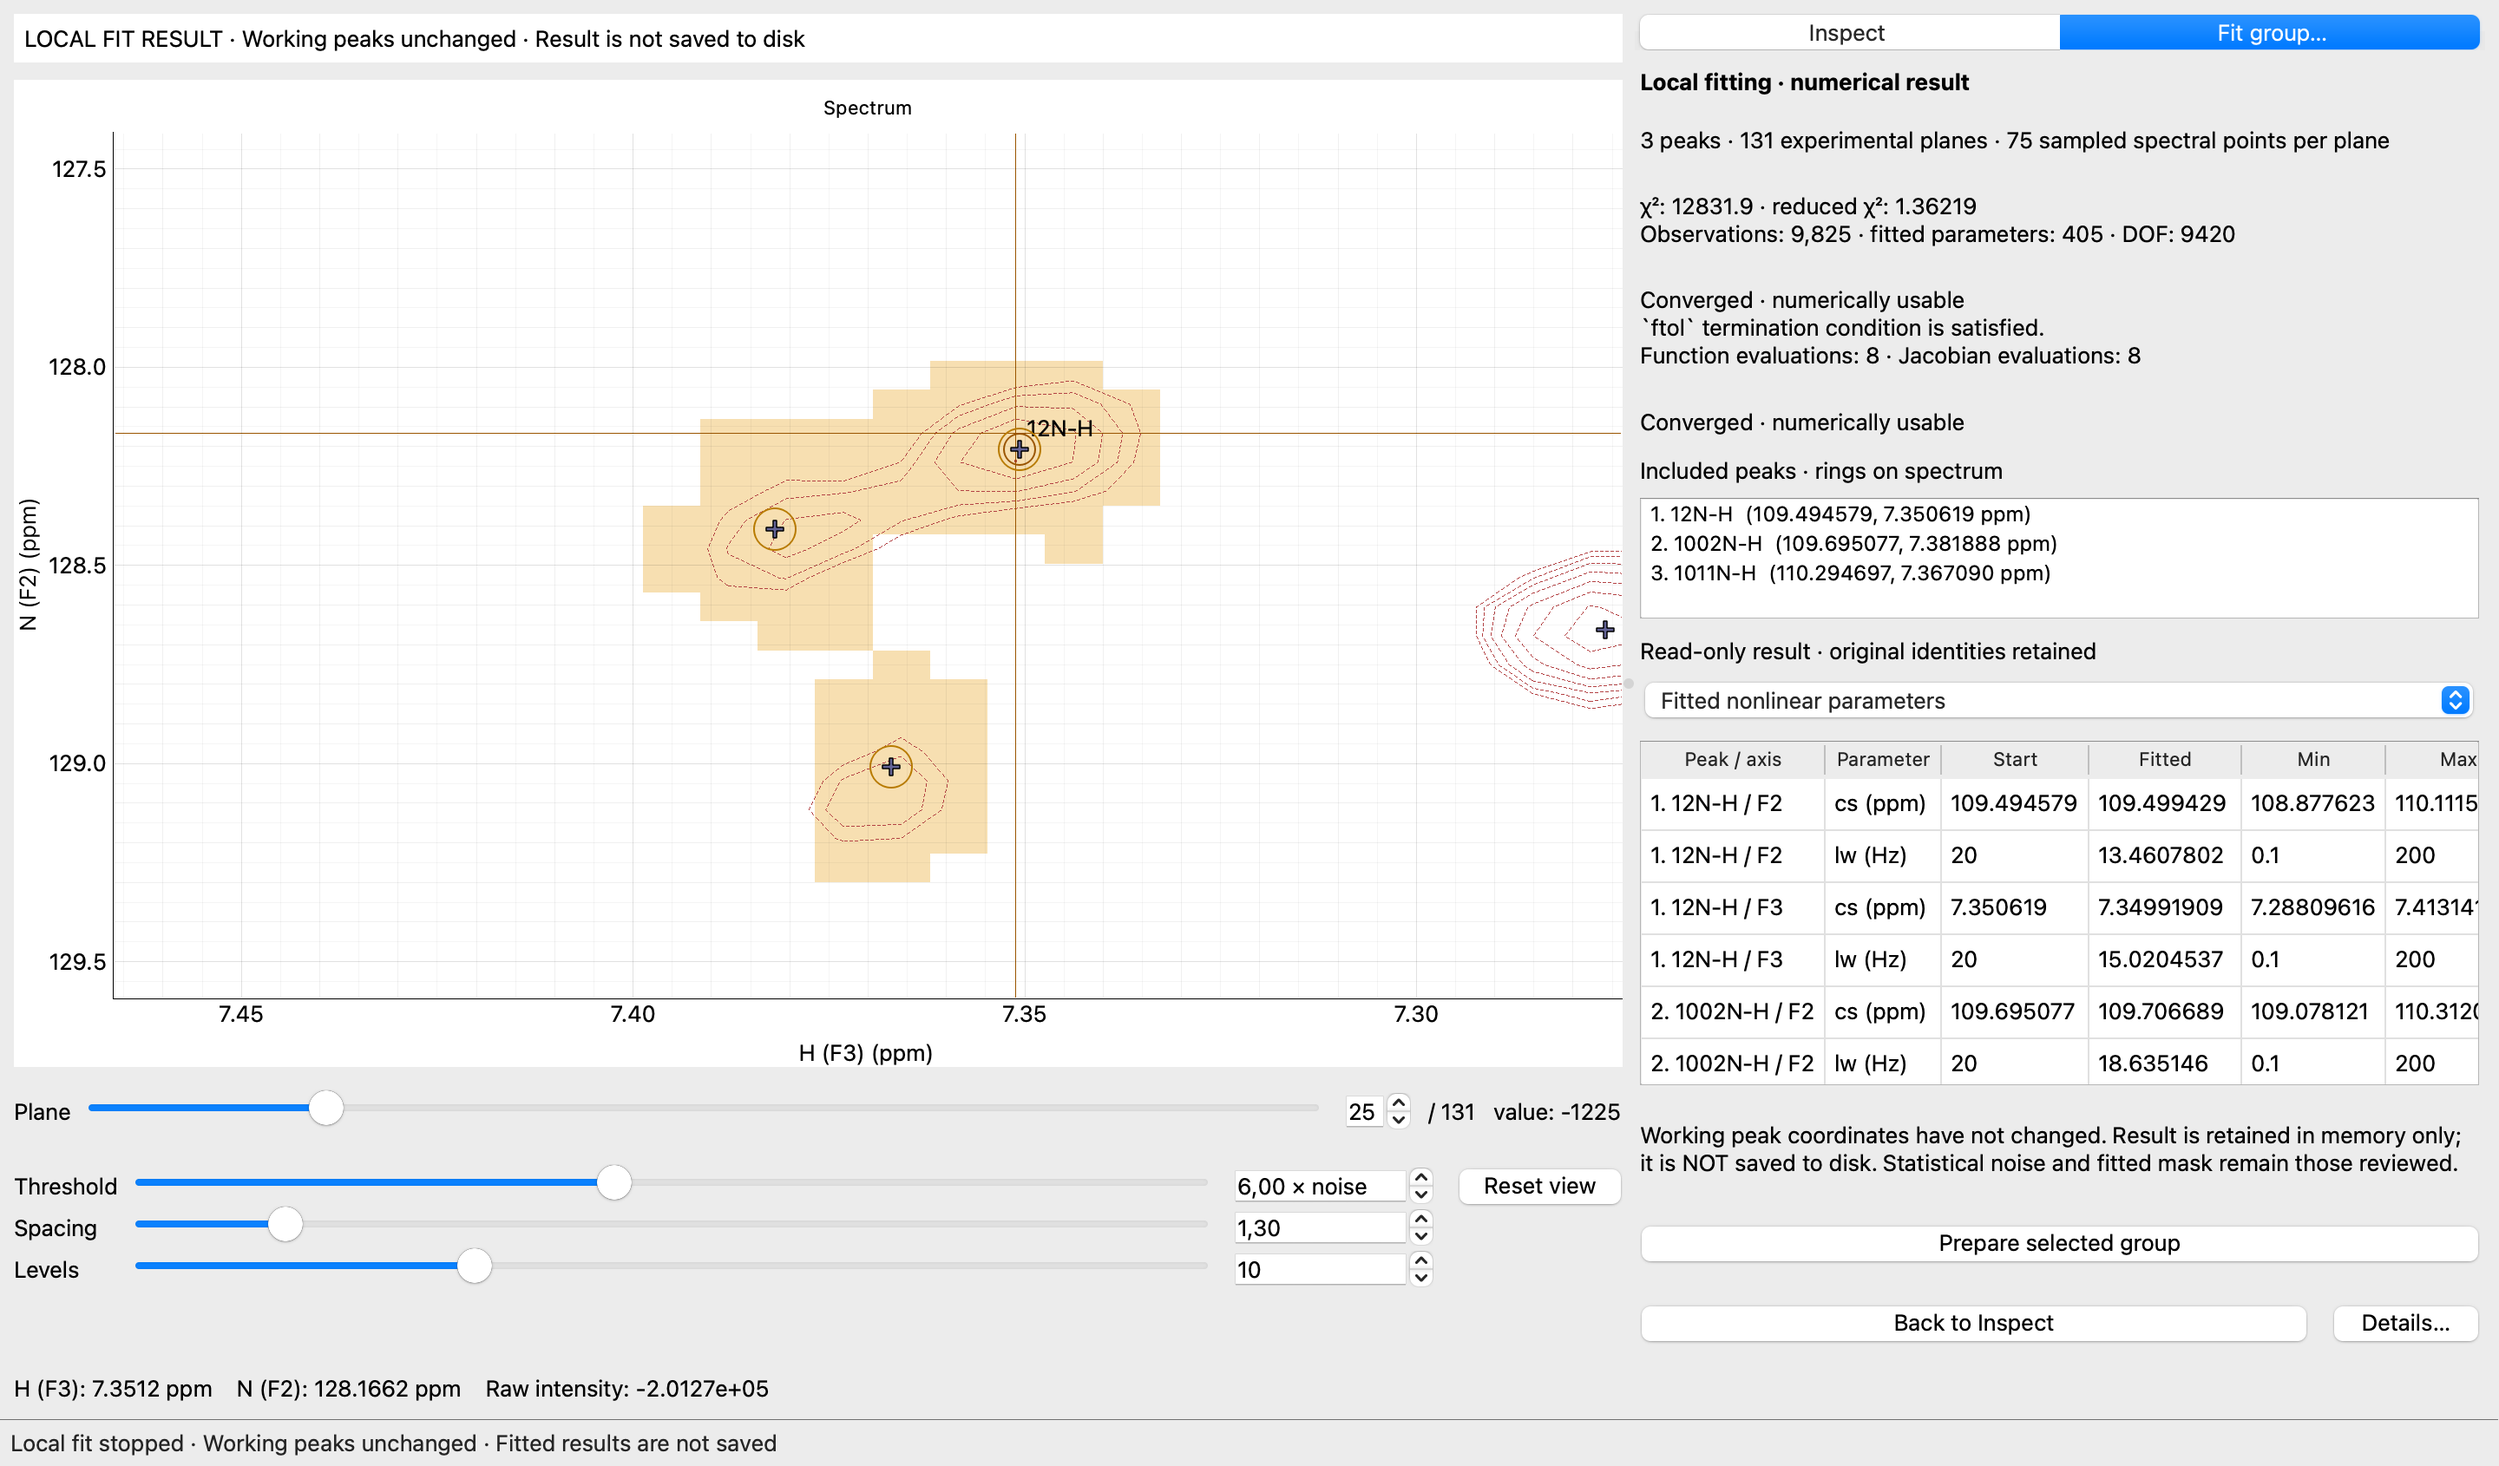
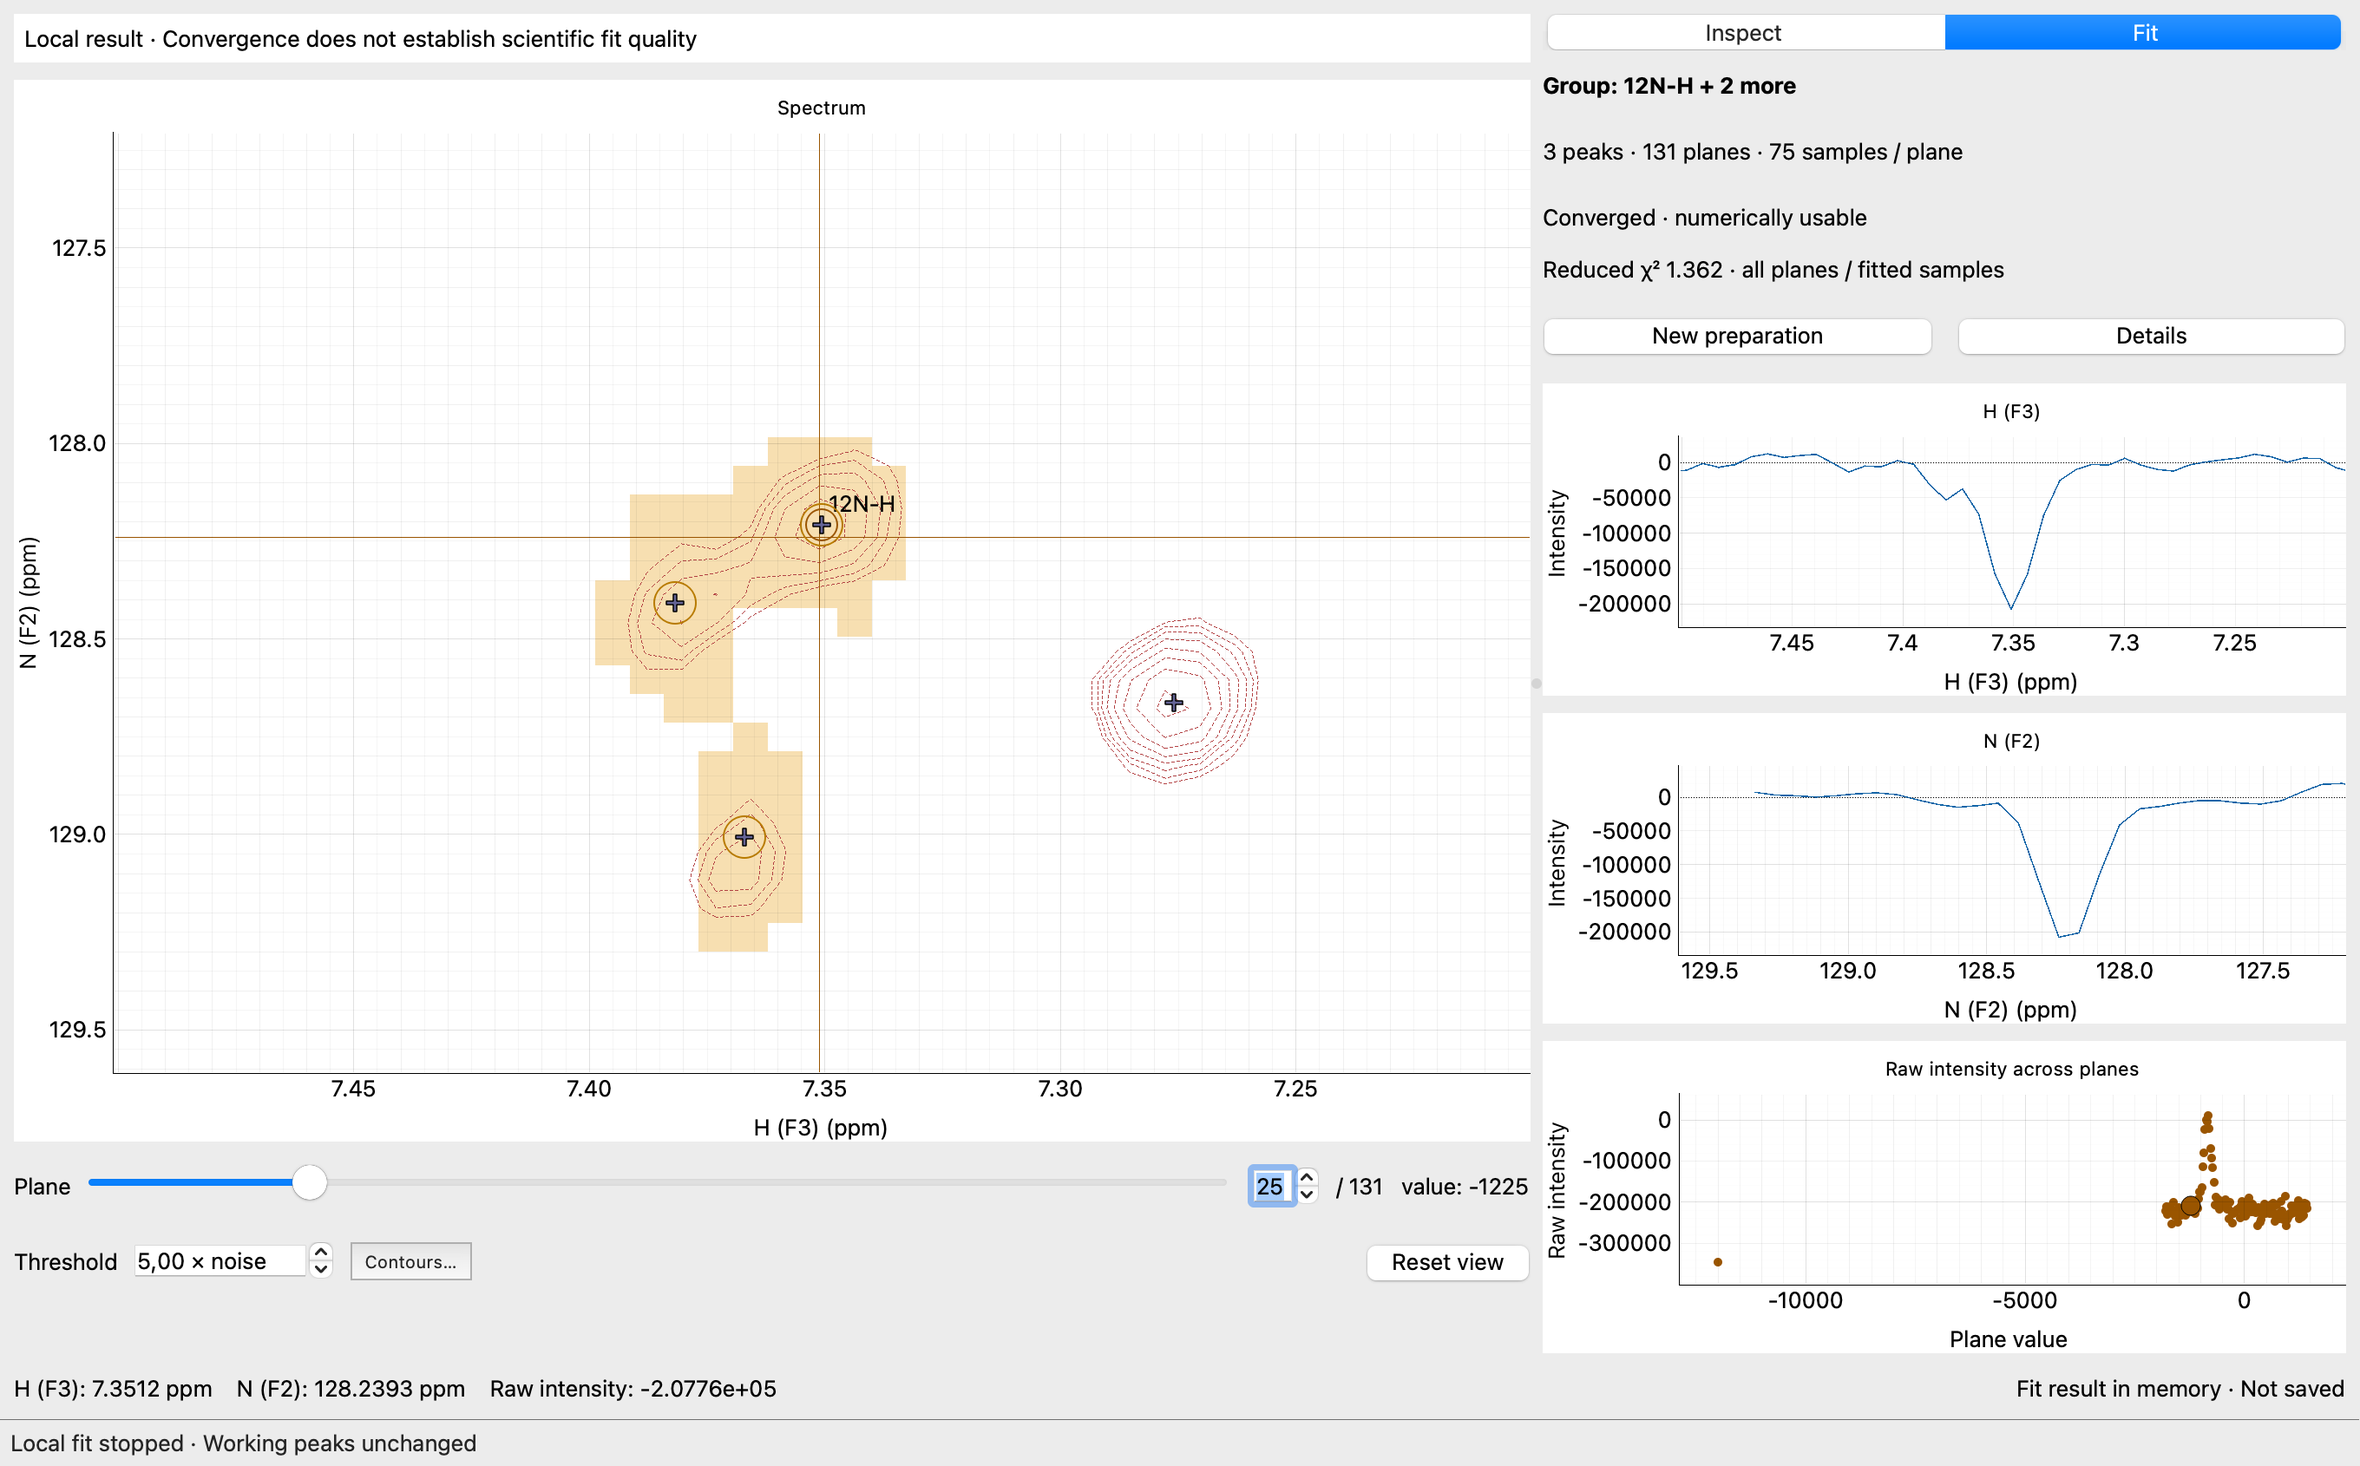
Document native UX validation and refresh GUI screenshots

diff --git a/src/peakfit/gui/fit_preview.py b/src/peakfit/gui/fit_preview.py
@@ -292,7 +292,9 @@ class FitPreview(QtWidgets.QWidget):
         memory = result.scientific.peak_memory_bytes
         memory_label = f"{memory / 1024**2:.1f} MiB" if memory is not None else "unavailable"
         self._details = (
-            f"\n\n{quality}\n{provenance.termination_message}\n"
+            f"{quality}\n{provenance.termination_message}\n"
+            f"Function evaluations: {provenance.function_evaluations} · "
+            f"Jacobian evaluations: {provenance.jacobian_evaluations}\n"
             f"Optimality: {provenance.optimality}\n"
             f"Optimizer settings: {result.scientific.optimizer_config}\n"
             f"Numerical execution: {result.scientific.execution_seconds:.3f} s\n"

diff --git a/tests/test_gui_fit_execution.py b/tests/test_gui_fit_execution.py
@@ -223,6 +223,7 @@ def test_spawned_lifecycle_navigation_cancellation_failure_and_stale_results(mon
         assert tuple((p.mapTo(viewer, QtCore.QPoint()), p.size()) for p in plots) == positions
         assert "all planes / fitted samples" in viewer.fit_preview.quality.text()
         assert "no fit has been run" not in viewer.fit_preview._details
+        assert "Function evaluations:" in viewer.fit_preview._details
         assert "Not saved" in viewer.result_notice.text()
         retained_threshold = retained.scientific.inputs.contour_level
         viewer.threshold.setValue(9)

diff --git a/docs/gui.md b/docs/gui.md
@@ -15,7 +15,8 @@ starts automatic peak picking. Other dimensionalities are rejected with an error
 
 ![Spectrum viewer with the bundled experimental dataset](images/spectrum-viewer.png)
 
-Native macOS capture; [dark appearance](images/spectrum-viewer-dark.png) is also available.
+Native macOS capture; [Inspect in a small dark window](images/spectrum-viewer-dark.png)
+is also available.
 
 ## Navigation
 
@@ -26,8 +27,8 @@ Native macOS capture; [dark appearance](images/spectrum-viewer-dark.png) is also
 - Use the plane slider/spin box or **Ctrl+Page Up / Ctrl+Page Down**. Plane numbers start at
   1; the adjacent value is the experimental coordinate supplied by `--z-values`,
   or the original zero-based plane index when no values file is supplied.
-- Use the sliders for visual adjustment of threshold, geometric spacing, and level
-  count; adjacent spin boxes allow precise entries. The threshold slider is
+- **Threshold** accepts precise entries. **Contours…** contains sliders for threshold,
+  geometric spacing, and level count, plus precise spacing/count inputs. The threshold slider is
   logarithmic (0.1–1000 × the first plane's estimated noise), with fine relative
   adjustments at low thresholds. Slider arrow keys make small changes; Page Up /
   Page Down make larger changes when a slider has focus. Blue solid contours are
@@ -108,6 +109,8 @@ focused slider; Tab moves between controls; Escape or clicking outside closes th
 popup. Changes update the display immediately through the existing debounced worker.
 Opening it does not change plot geometry. Threshold uses first-plane noise for its
 scale; it is not the independently estimated statistical fitting noise.
+
+![Compact contour popup in dark appearance](images/contour-controls.png)
 
 During preparation, threshold changes still update the exact group and sampled mask.
 Once submitted, a fit retains its original scientific inputs: contour changes during
@@ -190,8 +193,6 @@ Qt paths, widgets, and graphics are constructed only on the GUI thread.
 
 ![Local fitting scope with the bundled pseudo-3D spectrum](images/fit-scope-preview.png)
 
-![Three overlapping peaks and their exact sampled fitting region](images/fit-scope-closeup.png)
-
 ## Scope and performance
 
 Manual editing changes one shared peak list across all experimental planes.
@@ -221,8 +222,6 @@ Fixed-height header and status areas keep the plots stable during progress,
 warnings, and scope updates. Details open inline only on request.
 The [native comparison](development.md#gui-responsiveness) covers the original
 viewer and this workspace down to 0.1× noise.
-
-![Complete low-threshold contours and lightweight fitting scope](images/fit-scope-low-threshold.jpg)
 
 Running preparation/contour work is not forcefully interrupted; it finishes in the
 background and its obsolete result is ignored. Optimization uses a separate,
@@ -256,18 +255,17 @@ strip explains this restriction. Contour changes affect rendering only once a fi
 has been submitted; its original fitting threshold and mask remain fixed.
 
 The completed Fit workspace distinguishes **converged**, **usable but not converged**,
-and **unusable** outcomes. Its compact header shows numerical usability and reduced χ², labeled as an
-all-plane statistic over fitted samples. The termination message, evaluation
+and **unusable** outcomes. Its compact header shows numerical usability and reduced
+χ², labeled as an all-plane statistic over fitted samples. The termination message, evaluation
 counts, χ², observation/parameter counts, and degrees of freedom are in **Details**.
-Convergence describes optimizer termination and is not styled as scientific success. The read-only
-table in **Details** switches between starting/fitted nonlinear parameters (including bounds and
-fixed/variable flags) and independently recovered signed amplitudes for the displayed
+Convergence describes optimizer termination and is not styled as scientific success.
+The read-only table in **Details** switches between starting/fitted nonlinear
+parameters (including bounds and fixed/variable flags) and independently recovered signed amplitudes for the displayed
 experimental plane. Use the main plane controls to inspect other amplitudes;
 repeated/unordered plane values retain their original plane identities.
 **Details** retains model assumptions, statistical noise, the submitted threshold,
 warnings, optimizer settings, software/run identity, timings, and child peak memory.
-Convergence is an optimizer termination condition, not proof of scientific adequacy.
-Graphical model/residual comparisons remain deferred to Step 2B.
+Graphical model/residual comparisons remain deferred to Step 2B-2.
 
 Working peaks, their undo history, and spectrum samples never change on completion.
 The result separately owns the original input snapshot and stable GUI identities,
@@ -279,8 +277,8 @@ replacing it; a canceled or failed attempt keeps the previous result, accessible
 through **Retained result**. **New preparation** starts another review.
 
 **Results are in memory only and cannot yet be saved.** A single persistent footer
-notice identifies a retained unsaved fit, including while inspecting working peaks. Closing or replacing the
-spectrum requires confirmation before discarding a completed result. Exporting
+notice identifies a retained unsaved fit, including while inspecting working peaks.
+Closing or replacing the spectrum requires confirmation before discarding a completed result. Exporting
 working peaks does not export the fit. Later scientific edits mark the retained
 result outdated and remove its current-spectrum scope overlays; numerical inspection
 still uses its original inputs. Obsolete background deliveries never replace it.
@@ -289,7 +287,10 @@ applying fitted coordinates is not available in this step.
 
 ![Local fit running natively on macOS](images/local-fit-running.png)
 
-![Completed numerical result, with unchanged working peaks](images/local-fit-completed.png)
+![Completed numerical result with persistent experimental plots](images/local-fit-completed.png)
+
+[Result in a small dark window](images/local-fit-completed-dark.png) ·
+[On-demand numerical details](images/local-fit-details.png).
 
 ## Next visualization step
 

diff --git a/docs/development.md b/docs/development.md
@@ -250,3 +250,32 @@ subprocess architecture changes were needed.
 The existing close test now protects those transactional decisions, including a
 fit completing during an earlier dialog. The existing spawned lifecycle test
 checks direct `set_peaks()` rejection before any history/selection/revision changes.
+
+### Step 2B-1: persistent inspection plots
+
+Native Cocoa inspection used the bundled 131-plane spectrum and the overlapping
+12N-H / 1002N-H / 1011N-H group (75 samples per plane at the default threshold).
+The compact header, three experimental plots, inline details, and contour popup
+were checked at 1360 × 845 and 1000 × 720 content sizes, including light/dark
+appearance. Window-manager limits reduced the requested 900-pixel large height.
+Qt widget captures are in the [GUI guide](gui.md); they show actual experimental
+samples, with no model/residual rendering.
+
+Recorded spectrum and plot positions/sizes were identical across Inspect,
+preparation, starting/running, and completed states at a fixed window size.
+Returning from numerical details restored all three plots. At the smaller size,
+showing the retained-result action also preserved geometry. Native input checked
+logarithmic threshold keys, precise numerical entry, group updates, plane 25,
+crosshair movement, Inspect/Fit switching, and canceling result-replacement and
+close confirmations. The popup itself was inspected through native Qt widget
+captures: macOS accessibility/capture intermittently omitted this transient window.
+No alternative contour algorithm was introduced or benchmarked in this layout
+change; the existing full-resolution contour path and background lane are unchanged.
+
+The existing GUI scenarios now protect plot visibility/geometry during preparation,
+execution and results, popup focus/Escape dismissal, detail restoration, retained
+thresholds, and numerical diagnostics. Native Cocoa: 10 passed; full offscreen
+suite: 233 passed. The native scenarios include real subprocess cancellation,
+stale delivery, unsaved-result guards, manual editing/history/export, and the
+complete dense low-threshold contours. Ruff, formatting, strict ty and import-linter
+pass. No new test functions or dependencies were added.

diff --git a/docs/architecture.md b/docs/architecture.md
@@ -20,7 +20,10 @@ fit orchestration, uncertainty analysis, plotting, and output generation.
   shapes are discarded; editable GUI coordinates are separate from completed results.
   Local scope preparation constructs fresh engine-safe peaks from snapshots, reuses
   engine clustering and pipeline parameter preparation, and displays the exact mask
-  in a contextual Inspect/Fit workspace. One serial background lane handles numerical
+  in a contextual Inspect/Fit header above persistent experimental inspection plots.
+  Explicit numerical details temporarily replace those plots in the same column;
+  header state and popup contour controls do not reflow the main spectrum.
+  One serial background lane handles numerical
   preparation and contour extraction; Qt applies only current results.
   Exact lightweight scope geometry remains available even when numerical data
   exceeds preparation limits; only eligible selected-group arrays are materialized.
